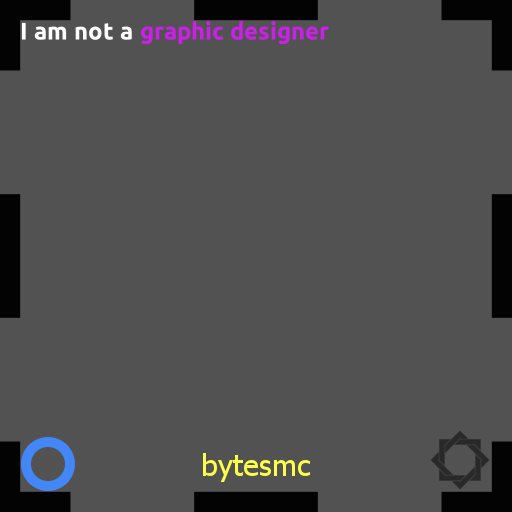
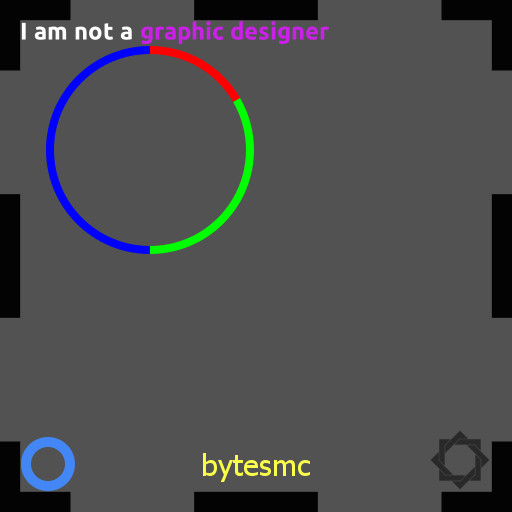
Add circles

Changed region(s): [[0.0625, 0.0625, 0.5, 0.5]]

diff --git a/index.js b/index.js
@@ -119,6 +119,83 @@ module.exports.create = async (template, values, consumer) => {
         ctx.restore();
     }
 
+    if (Array.isArray(template.circles)) {
+        ctx.save();
+        ctx.lineCap = 'butt';
+
+        for (let circle of template.circles) {
+            if (typeof circle.x != 'number') continue;
+            if (typeof circle.y != 'number') continue;
+            if (typeof circle.width != 'number') continue;
+            if (typeof circle.radius != 'number') continue;
+
+            if (Array.isArray(circle.sections)) {
+                ctx.lineWidth = circle.width;
+
+                let total = 0;
+                let sections = [];
+
+                for (let section of circle.sections) {
+                    let weight = section.weight;
+
+                    if (typeof weight == 'string') {
+                        weight = parseInt(this.replace(section.weight, values));
+
+                        if (isNaN(weight)) {
+                            continue;
+                        }
+                    }
+
+                    if (typeof weight != 'number' || weight <= 0) continue;
+                    if (typeof section.color != 'string') continue;
+
+                    let color = this.replace(section.color, values);
+
+                    if (/^#([0-9a-fA-F]{3}){1,2}$/.test(color)) {
+                        total += weight;
+                        sections.push({
+                            "color": color,
+                            "weight": weight
+                        });
+                    }
+                }
+
+                if (total == 0) {
+                    ctx.strokeStyle = "#000";
+
+                    if (typeof circle.default == 'string') {
+                        let color = this.replace(circle.default, values);
+
+                        if (/^#([0-9a-fA-F]{3}){1,2}$/.test(color)) {
+                            ctx.strokeStyle = color;
+                        }
+                    }
+
+                    ctx.beginPath();
+                    ctx.arc(circle.x, circle.y, circle.radius, 0, Math.PI * 2);
+                    ctx.stroke();
+
+                    continue;
+                }
+
+                let previous = -(Math.PI / 2);
+
+                for (let section of sections) {
+                    let amount = (Math.PI * 2) * (section.weight / total);
+
+                    ctx.strokeStyle = section.color;
+                    ctx.beginPath();
+                    ctx.arc(circle.x, circle.y, circle.radius, previous, previous + amount);
+                    ctx.stroke();
+
+                    previous += amount;
+                }
+            }
+        }
+
+        ctx.restore();
+    }
+
     if (typeof consumer == 'function') {
         consumer(ctx);
     }

diff --git a/readme.md b/readme.md
@@ -43,5 +43,22 @@ Properties are continuous and will use previously set values if missing.
 - **color** - *`string initially #fff` hex code or placeholder to fill text*
 - **family** - *`string initially 'sans-serif'` font family to use*
 
+#### Circles (outline pie charts)
+Array of json objects with the following properties.
+
+- **x** - *`number required` center point*
+- **y** - *`number required` center point*
+- **width** - *`number required` line width*
+- **radius** - *`number required` ...*
+- **default** - *`string defaults to #000` hex code or placeholder used to draw if all sections total to 0*
+- **sections** - *`array of Section` all sections of the circle*
+
+#### Section
+Used only for drawing circles.
+If either value is invalid the section will be skipped.
+
+- **color** - *`string required` can be placeholder*
+- **weight** - *`string/number required` can be placeholder, must result in a number*
+
 ## Example
 An example application can be found in `/example/`.
